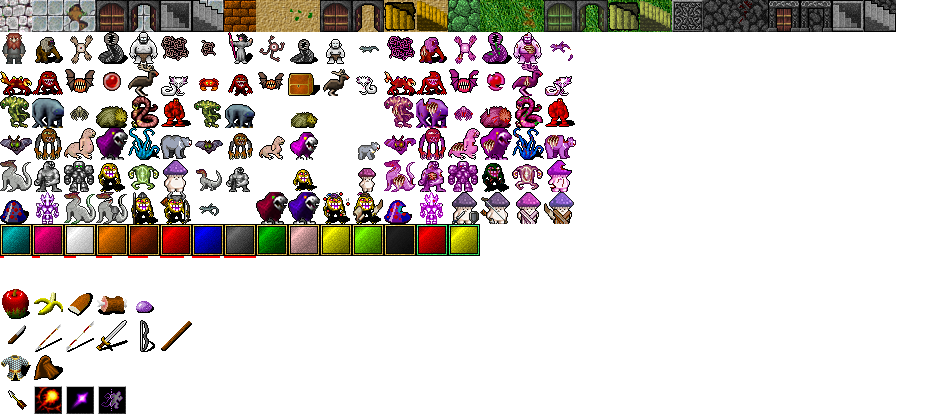
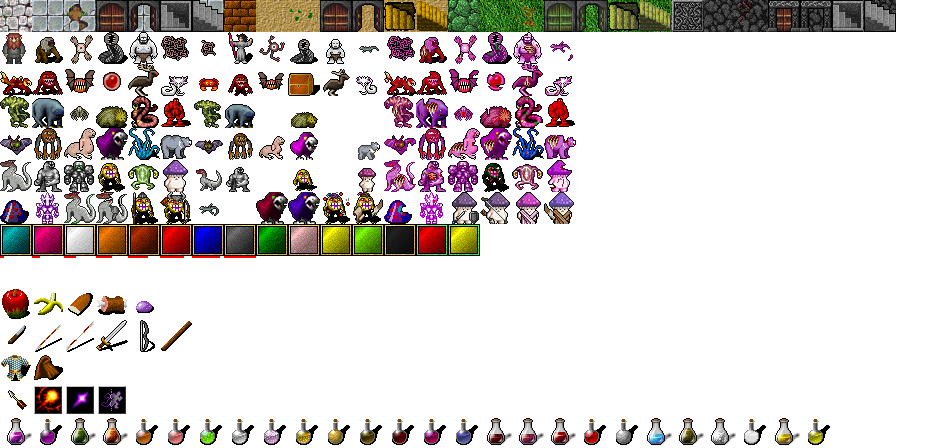
add changelog and potions

Changed region(s): [[0.0, 0.0, 0.9503, 1.0]]

diff --git a/assets/item.js b/assets/item.js
@@ -63,6 +63,9 @@ Game.chooseItem = function(num) {
   if (itemtype == "food") {
     Game.messages.drawText(1, iterator + 2, "e) Eat");
   }
+  if (itemtype == "potion") {
+    Game.messages.drawText(1, iterator + 2, "e) Drink");
+  }
   if (itemtype == "weapon" || itemtype == "armor" || itemtype == "amulet") {
     if (Game.inventory[num].isWielded() == 0) {
       Game.messages.drawText(1, iterator + 2, "w) Wield");
@@ -122,7 +125,7 @@ Game.doItem = function(action) {
       }
       Game.doItemOptions();
       Game.messagebox.sendMessage("You unwielded the " + Game.inventory[num].name + ".");
-    }
+    }    console.log(itemtype);
 
   }
   if (action == "drop") {
@@ -137,12 +140,17 @@ Game.doItem = function(action) {
     Game.inventory.splice(num, 1);
   }
   if (action == "eat") {
-    if (itemtype != "food") {
+    if (itemtype != "food" && itemtype != "potion" ) {
       Game.messagebox.sendMessage("You cant do this.");
       return;
     }
+    if (itemtype == "food") {
+      Game.messagebox.sendMessage("You eat the " + Game.inventory[num].name + ".");
+    }
+    if (itemtype == "potion") {
+      Game.messagebox.sendMessage("You drink the " + Game.inventory[num].name + ".");
+    }
     Game.doFoodOptions();
-    Game.messagebox.sendMessage("You eat the " + Game.inventory[num].name + ".");
     Game.inventory.splice(num, 1);
   }
 }
@@ -159,10 +167,27 @@ Game.doFoodOptions = function() {
       Game.player.Mana = Math.min(Game.player.Maxmana, Game.player.Mana + value);
       Game.messagebox.sendMessage("You restored %c{blue}" + value + " MP%c{}.");
     }
+    if (key == "str") {
+      Game.player.Str = Game.player.Str + value;
+      Game.messagebox.sendMessage("You feel stronger.");
+    }
+    if (key == "agi") {
+      Game.player.Agi = Game.player.Agi + value;
+      Game.messagebox.sendMessage("You feel more agile.");
+    }
+    if (key == "int") {
+      Game.player.Int = Game.player.Int + value;
+      Game.messagebox.sendMessage("You feel smarter.");
+    }
+    if (key == "con") {
+      Game.player.Con = Game.player.Con + value;
+      Game.messagebox.sendMessage("You feel tighter.");
+    }
     if (key == "food") {
       Game.player.Hunger = Math.min(Game.player.Con*50, Game.player.Hunger + value);
     }
   }
+  Game.player.applyStats();
 }
 Game.doItemOptions = function() {
   var num = mode.chosenitem;

diff --git a/assets/items.js b/assets/items.js
@@ -159,3 +159,84 @@ Game.ItemRepository.define('chainmail', {
     agi: -1
   }
 });
+
+//potions
+Game.ItemRepository.define('smallstrpotion', {
+  name: "small potion",
+  Symbol: "potion" + (Math.floor(Math.random()*25)+1),
+  level: 1,
+  type: "potion",
+  options: {
+    str: 1
+  }
+});
+
+Game.ItemRepository.define('smallintpotion', {
+  name: "small potion",
+  Symbol: "potion" + (Math.floor(Math.random()*25)+1),
+  level: 1,
+  type: "potion",
+  options: {
+    int: 1
+  }
+});
+
+Game.ItemRepository.define('smallagipotion', {
+  name: "small potion",
+  Symbol: "potion" + (Math.floor(Math.random()*25)+1),
+  level: 1,
+  type: "potion",
+  options: {
+    agi: 1
+  }
+});
+
+Game.ItemRepository.define('smallconpotion', {
+  name: "small potion",
+  Symbol: "potion" + (Math.floor(Math.random()*25)+1),
+  level: 1,
+  type: "potion",
+  options: {
+    con: 1
+  }
+});
+
+Game.ItemRepository.define('mediumstrpotion', {
+  name: "medium potion",
+  Symbol: "potion" + (Math.floor(Math.random()*25)+1),
+  level: 3,
+  type: "potion",
+  options: {
+    str: 3
+  }
+});
+
+Game.ItemRepository.define('mediumintpotion', {
+  name: "medium potion",
+  Symbol: "potion" + (Math.floor(Math.random()*25)+1),
+  level: 3,
+  type: "potion",
+  options: {
+    int: 3
+  }
+});
+
+Game.ItemRepository.define('mediumagipotion', {
+  name: "medium potion",
+  Symbol: "potion" + (Math.floor(Math.random()*25)+1),
+  level: 3,
+  type: "potion",
+  options: {
+    agi: 3
+  }
+});
+
+Game.ItemRepository.define('mediumconpotion', {
+  name: "medium potion",
+  Symbol: "potion" + (Math.floor(Math.random()*25)+1),
+  level: 3,
+  type: "potion",
+  options: {
+    con: 3
+  }
+});

diff --git a/assets/tilemap.js b/assets/tilemap.js
@@ -62,6 +62,33 @@ var gameTilemap = {
   "bread": [64,288],
   "meat": [96,288],
   "slime": [128,288],
+//potion
+  "potion1": [0,416],
+  "potion2": [32,416],
+  "potion3": [64,416],
+  "potion4": [96,416],
+  "potion5": [128,416],
+  "potion6": [160,416],
+  "potion7": [192,416],
+  "potion8": [224,416],
+  "potion9": [256,416],
+  "potion10": [288,416],
+  "potion11": [320,416],
+  "potion12": [352,416],
+  "potion13": [384,416],
+  "potion14": [416,416],
+  "potion15": [448,416],
+  "potion16": [480,416],
+  "potion17": [512,416],
+  "potion18": [544,416],
+  "potion19": [576,416],
+  "potion20": [608,416],
+  "potion21": [640,416],
+  "potion22": [672,416],  
+  "potion23": [704,416],
+  "potion24": [736,416],
+  "potion25": [768,416],  
+  "potion26": [800,416],  
 //weapon
   "knife": [0,320],
   "spear": [32,320],

diff --git a/assets/entity.js b/assets/entity.js
@@ -244,6 +244,7 @@ Player.prototype.doDie = function() {
 }
 Player.prototype.act = function() {
   Game.engine.lock();
+  Game.player.applyStats();
   if (Game.player.Hunger < 1) {
     Game.player.Hp = Game.player.Hp - Math.floor((Math.random() * Game.player.Con) / 3);
   }

diff --git a/CHANGELOG.md b/CHANGELOG.md
@@ -1,0 +1,4 @@
+`30.11.2019`
+
+Start changelog. Add some potions to increase stats - basis of progression.
+Game is primitive, but playable.
